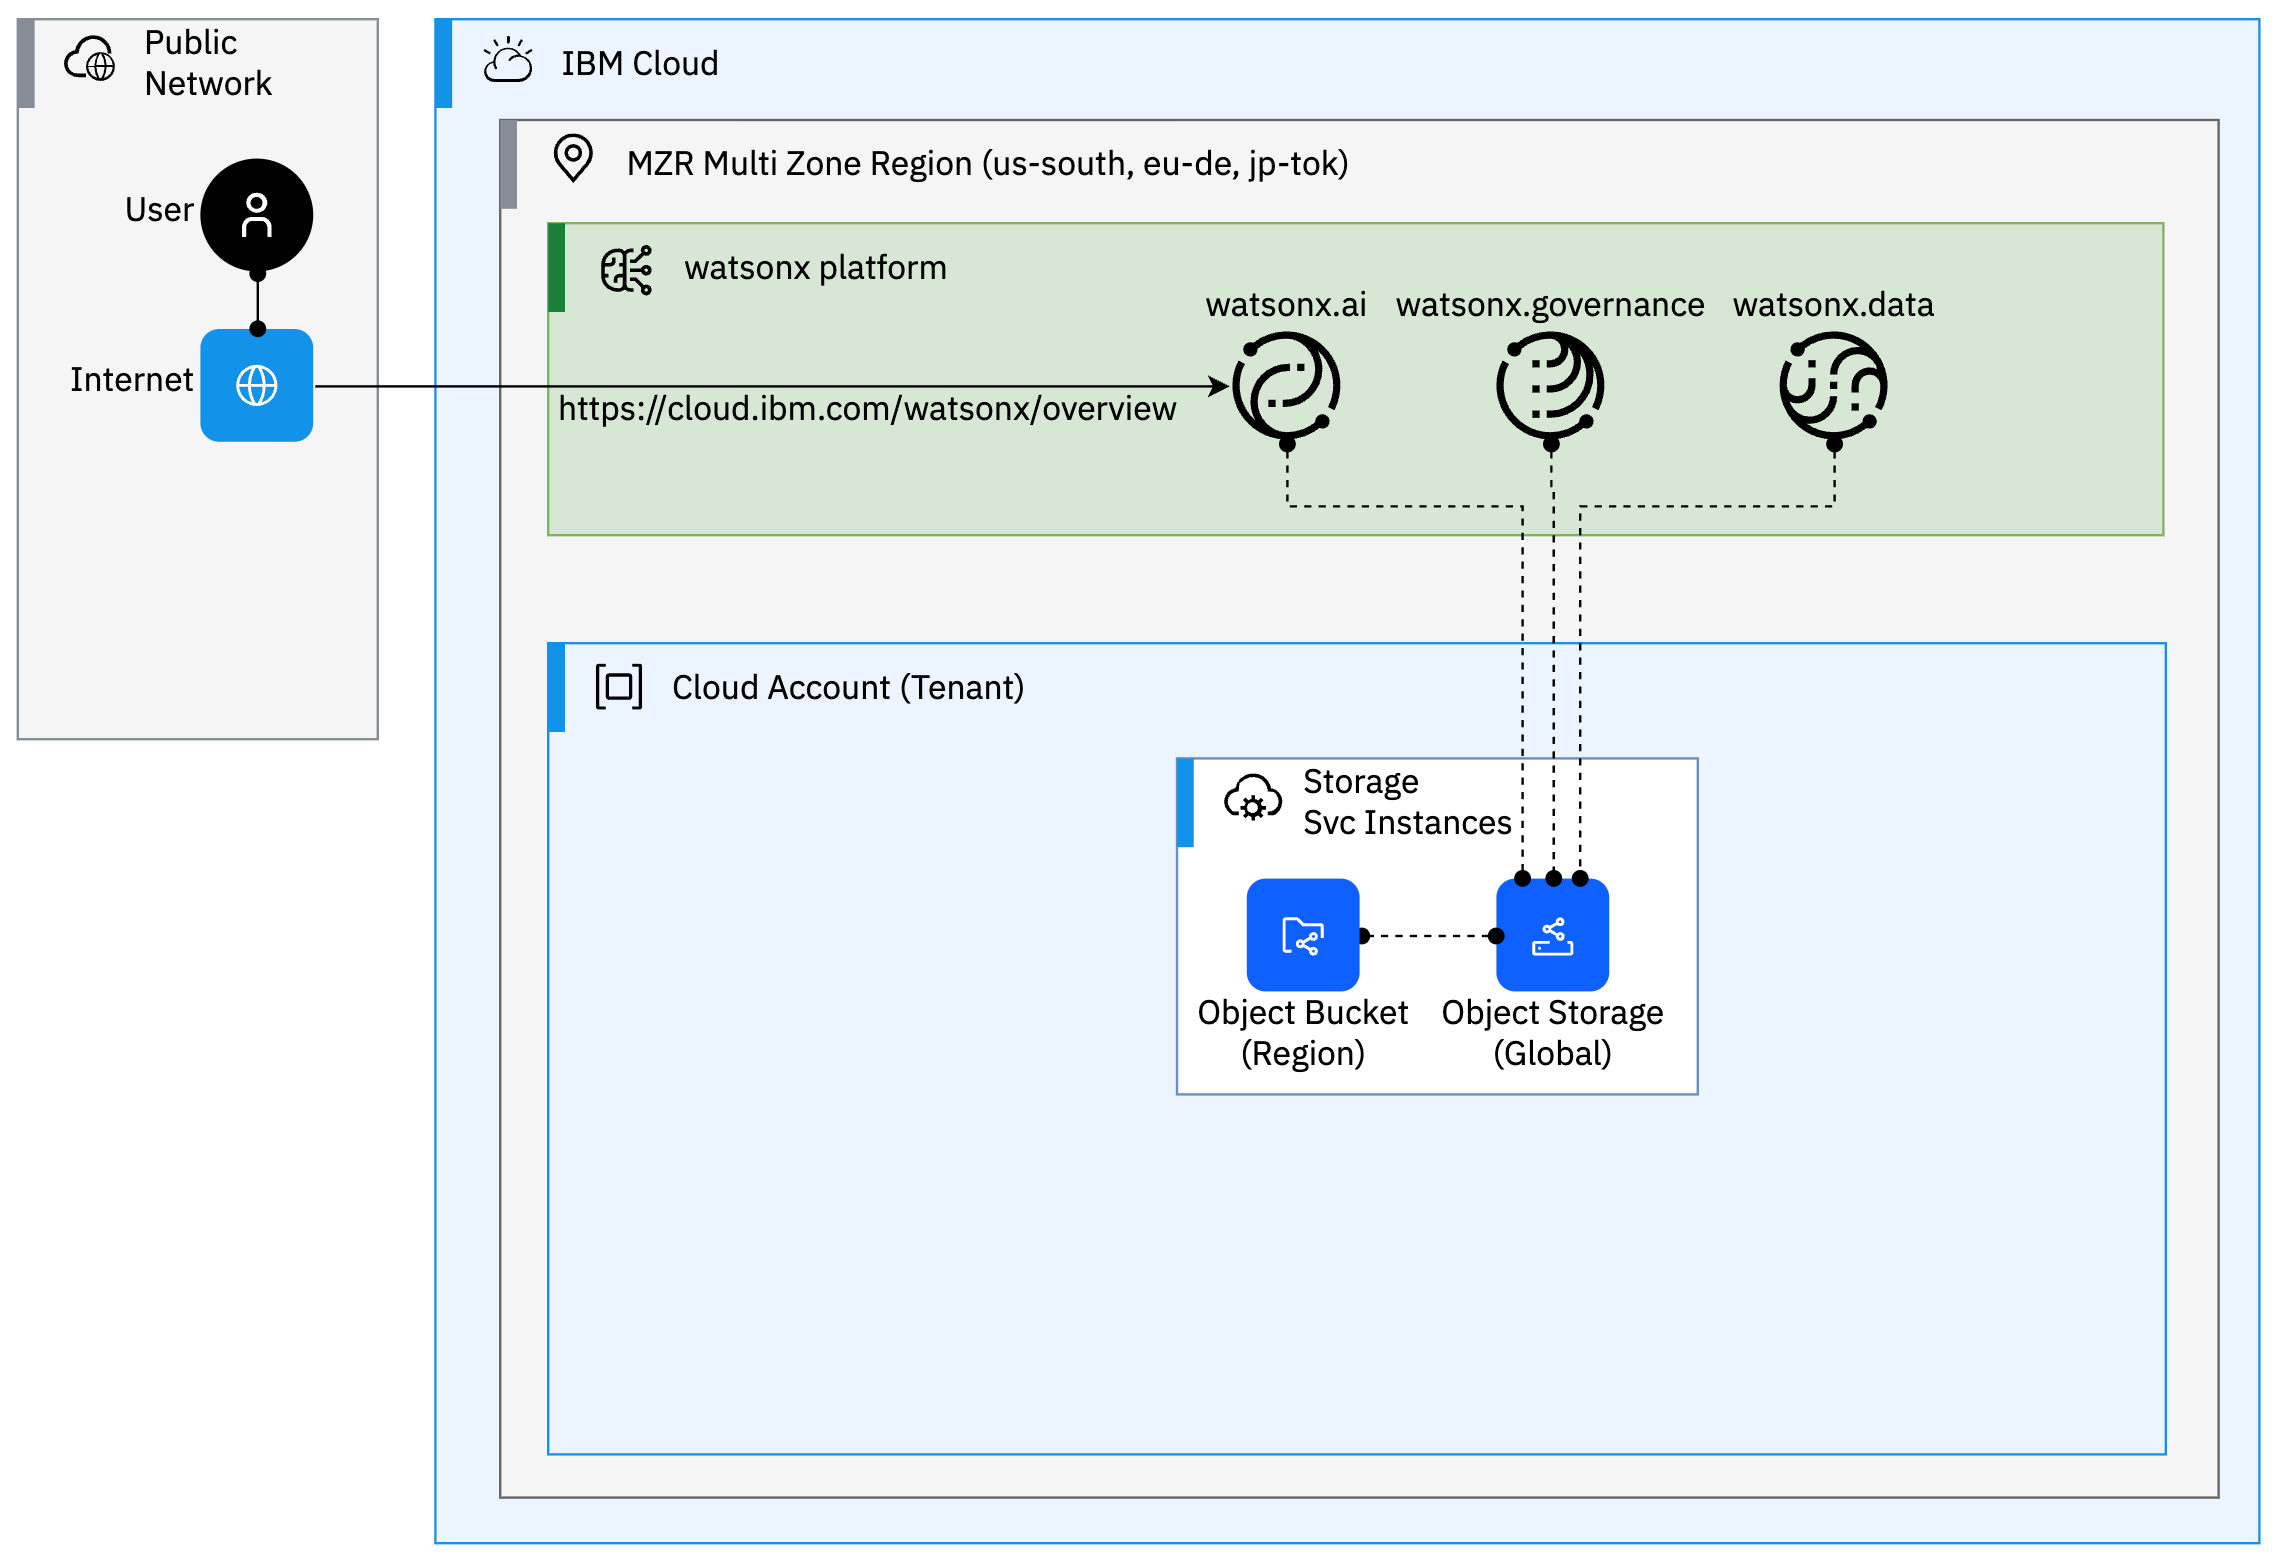
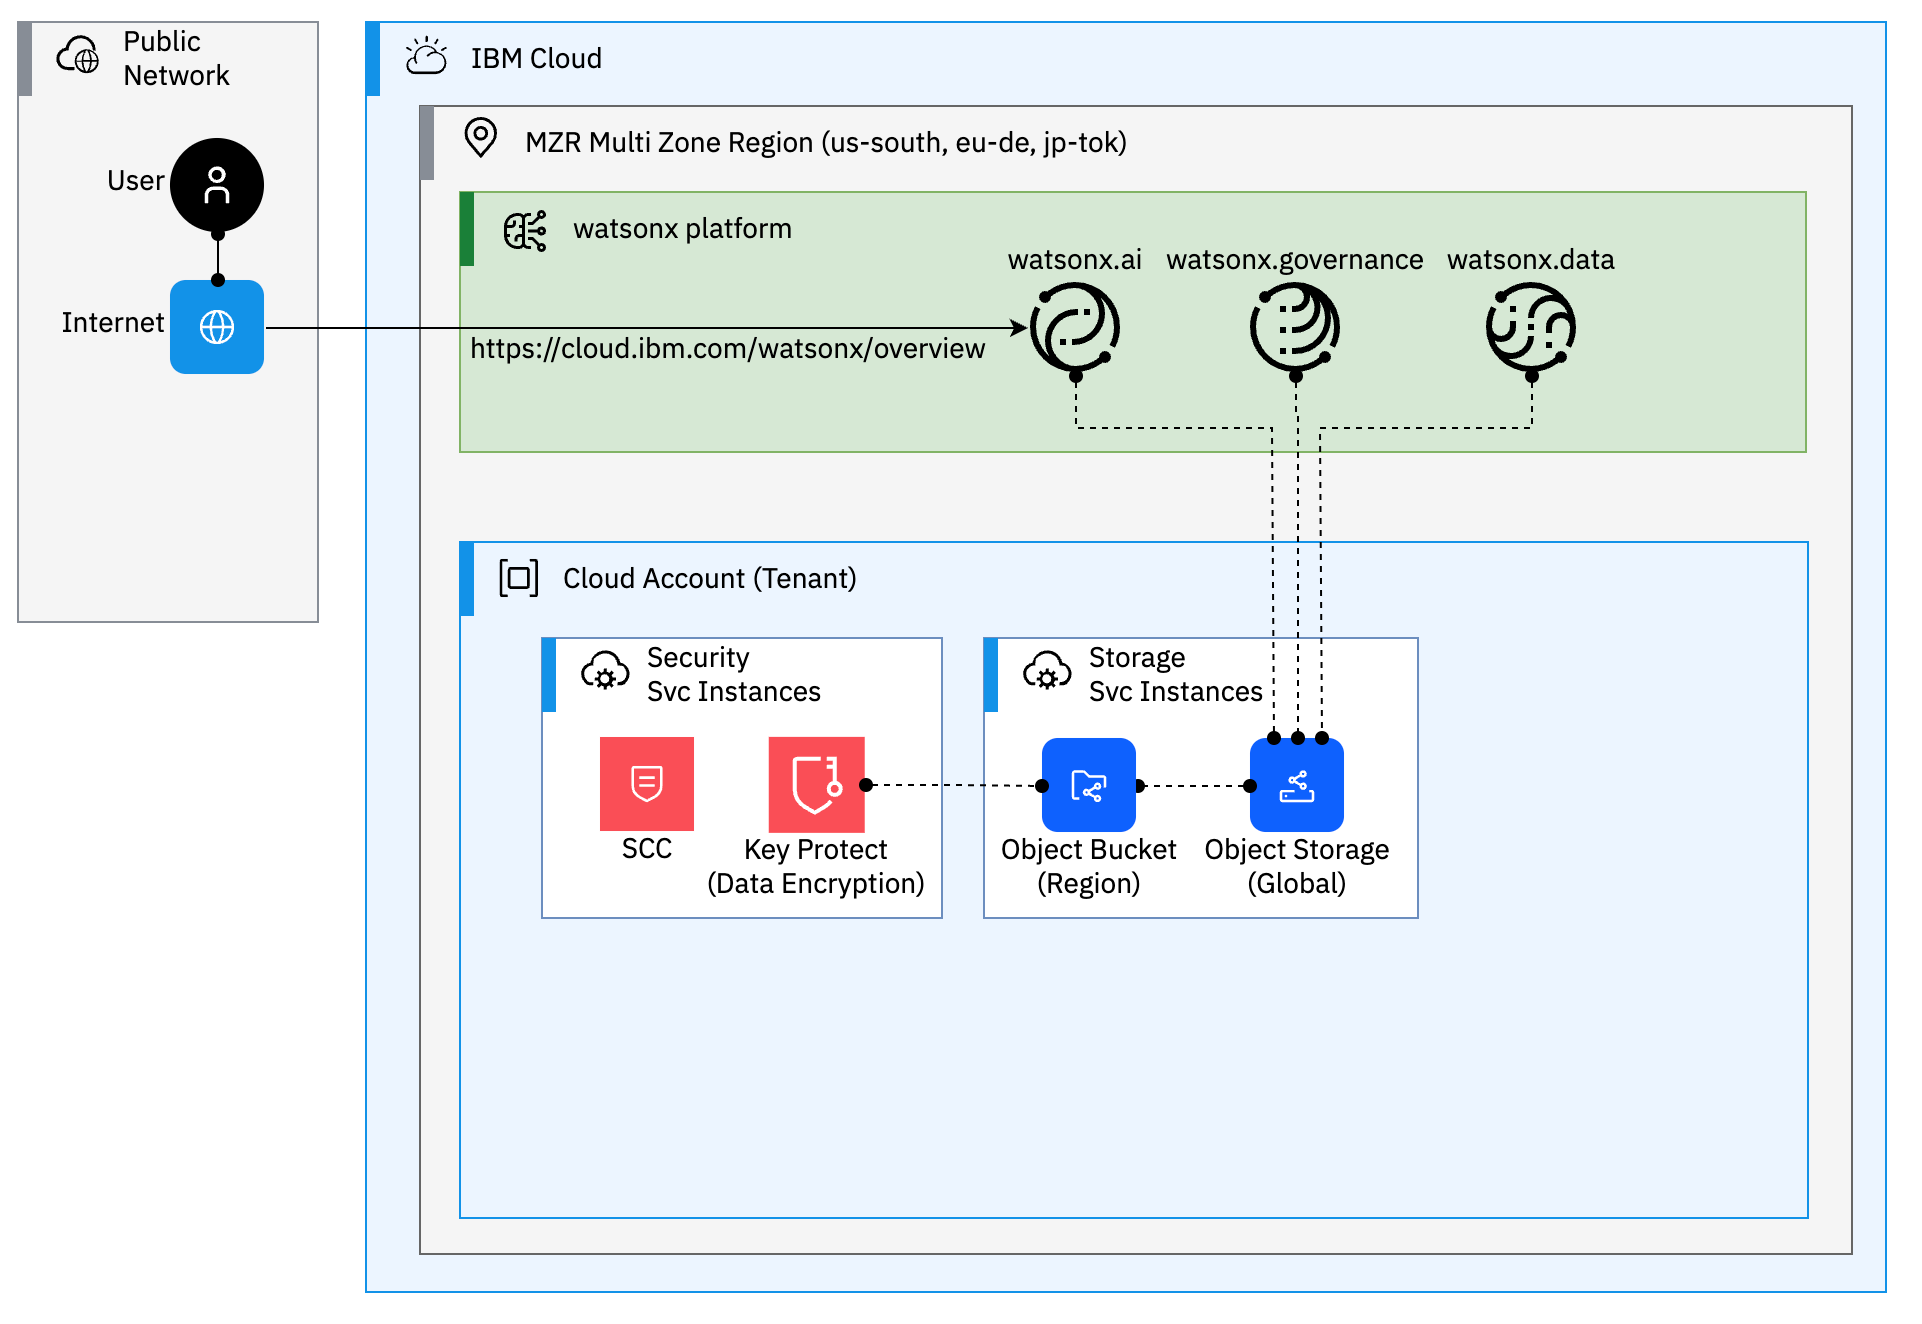
updated readme

diff --git a/watsonx/README.md b/watsonx/README.md
@@ -35,22 +35,15 @@ Source: https://dataplatform.cloud.ibm.com/docs/content/wsj/getting-started/secu
 
 You can use private network endpoints to connect to your IBM Watson Machine Learning service instance over the IBM Cloud Private network. After you configure your Watson Machine Learning service to use private endpoints, the service is not accessible from the public internet.
 
-Private URLs for Watson Machine Learning for each region are as follows:
-
-* Dallas - https://private.us-south.ml.cloud.ibm.com
-* London - https://private.eu-gb.ml.cloud.ibm.com
-* Frankfurt - https://private.eu-de.ml.cloud.ibm.com
-* Tokyo - https://private.jp-tok.ml.cloud.ibm.com
-
 ![Private Endpoint](./watsonx-private-enndpoint.png)
 
 Source: https://dataplatform.cloud.ibm.com/docs/content/wsj/analyze-data/ml-service-endpoint.html?context=cpdaas&audience=wdp
 
 ## Who has access to the data from IBM?
 
-Clients control whether prompts, model choices, and prompt engineering parameter settings are saved. When saved, your data is stored in a dedicated IBM Cloud Object Storage bucket that is associated with your project.
+IBM Cloud allows organizations to choose the geographic location where their data is stored and processed, helping them comply with data residency and sovereignty requirements.
 
-IBM does not have access to the Data.
+Clients control whether prompts, model choices, and prompt engineering parameter settings are saved. When saved, your data is stored in a dedicated IBM Cloud Object Storage bucket that is associated with your watsonx project.
 
 Source: https://dataplatform.cloud.ibm.com/docs/content/wsj/analyze-data/fm-security.html?context=wx
 
@@ -60,14 +53,18 @@ Data is stored in a dedicated IBM Cloud Object Storage bucket that is associated
 
 Source: https://dataplatform.cloud.ibm.com/docs/content/wsj/analyze-data/fm-security.html?context=wx
 
-![Private Endpoint](./watsonx-cos.png)
-
 IBM generally does not have access to Content.
-More details in the Data Processing and Protection Datasheet. Source: https://www.ibm.com/software/reports/compatibility/clarity-reports/report/html/softwareReqsForProduct?deliverableId=52EF8B204FEC11ED97548910D8A210BE
+More details in the Data Processing and Protection Datasheet.
+
+Source: https://www.ibm.com/software/reports/compatibility/clarity-reports/report/html/softwareReqsForProduct?deliverableId=52EF8B204FEC11ED97548910D8A210BE
 
 ## How does IBM Cloud secure the data that is shared with the watsonx platform?
 
+IBM Cloud employs encryption techniques to protect data both in transit and at rest. This ensures that data remains secure even if intercepted during transmission or stored on servers.
+
 In IBM watsonx, data security mechanisms, such as encryption, protect sensitive customer and corporate data, both in transit and at rest. A secure , and other mechanisms protect your valuable corporate data. A secure IBM Cloud Object Storage instance stores data assets from projects, catalogs, and deployment spaces.
+
+![COS](./watsonx-cos.png)
 
 Source: https://dataplatform.cloud.ibm.com/docs/content/wsj/getting-started/security-data.html?context=wx&audience=wdp
 
